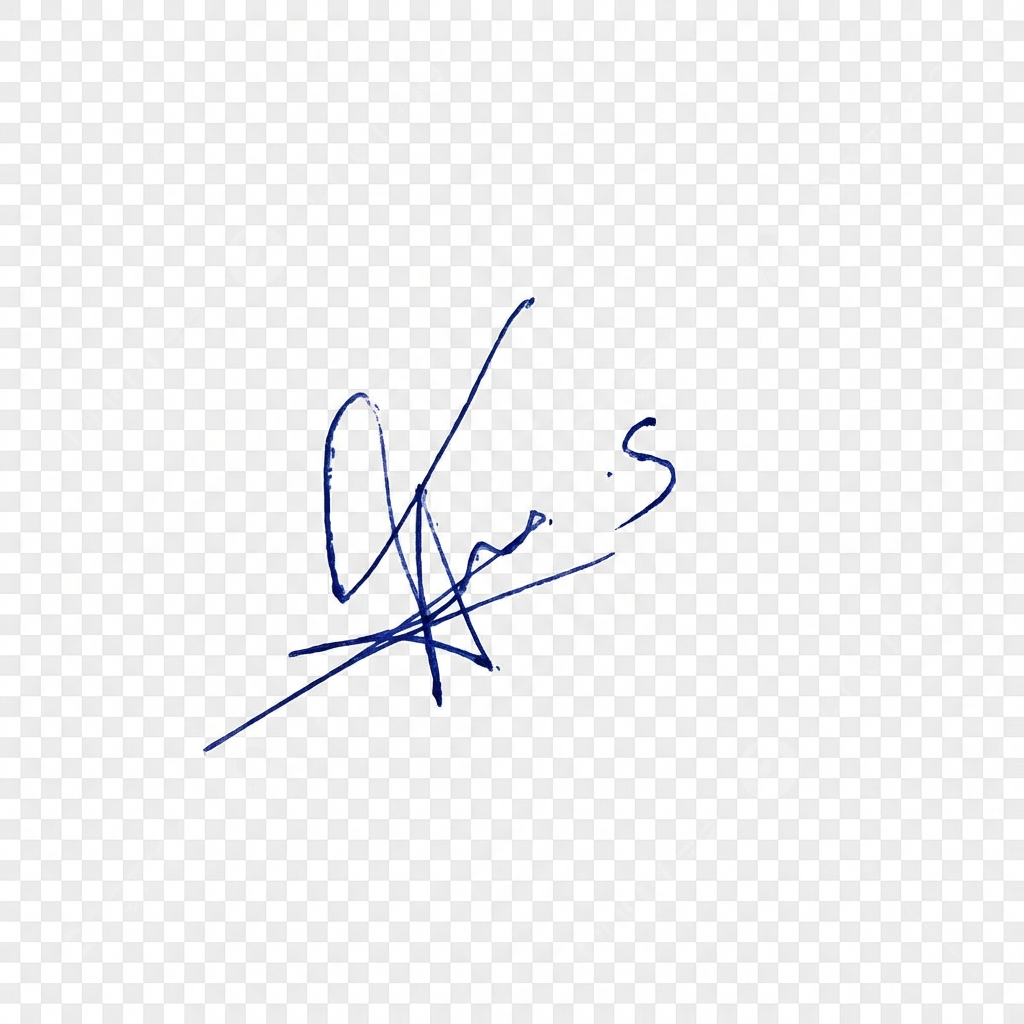
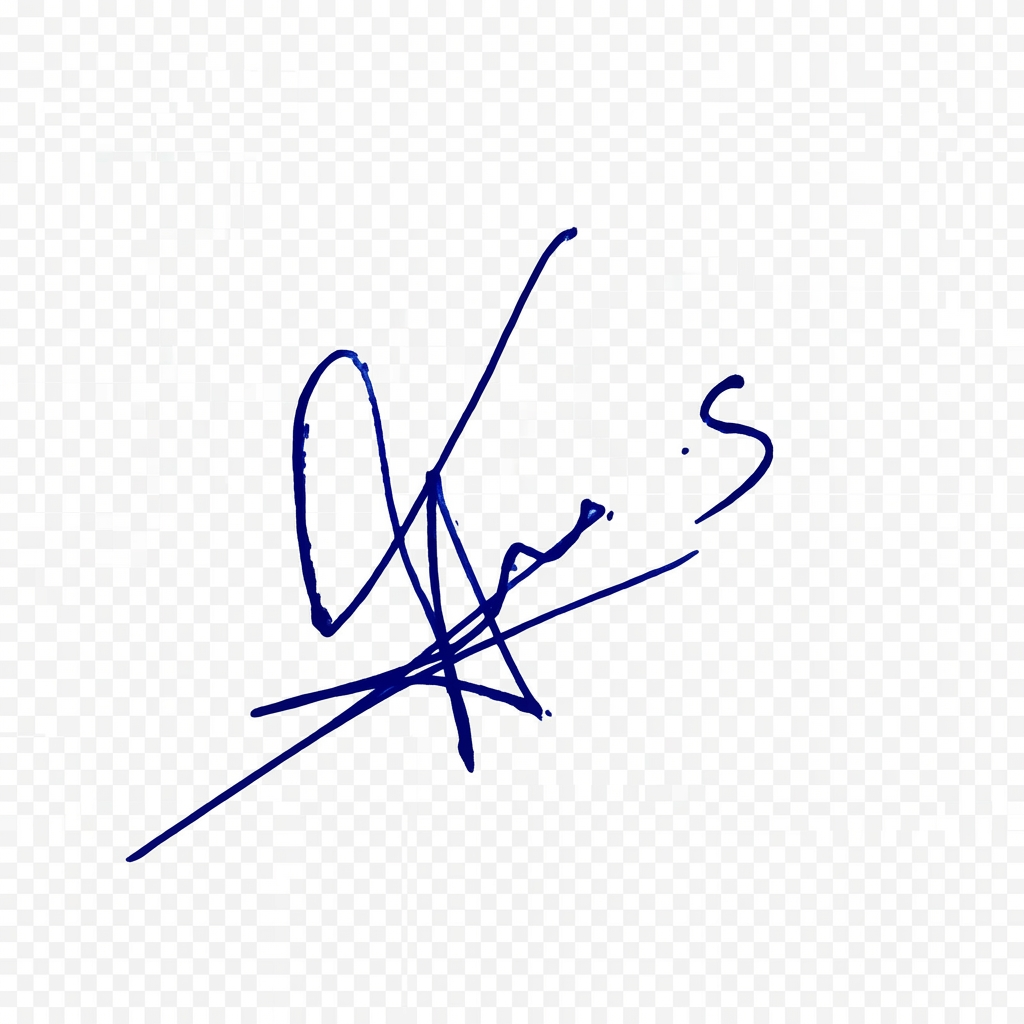
fix: Refine footer signature (remove text, transparent bg)

diff --git a/src/app/page.tsx b/src/app/page.tsx
@@ -50,9 +50,12 @@ export default function Home() {
         <a href="/privacy" className="hover:text-neutral-900 dark:hover:text-neutral-300 transition-colors">Privacy</a>
         <a href="/terms" className="hover:text-neutral-900 dark:hover:text-neutral-300 transition-colors">Terms</a>
         <span className="text-neutral-300 dark:text-neutral-700">|</span>
-        <div className="flex items-center gap-2">
-          <span className="text-neutral-400 text-xs">Built by</span>
-          <img src="/signature.png" alt="Amith" className="h-8 w-auto mix-blend-multiply dark:mix-blend-screen opacity-80" />
+        <div className="flex items-center justify-center">
+          <img
+            src="/signature.png"
+            alt="Signature"
+            className="h-10 w-auto opacity-90 hover:opacity-100 transition-opacity dark:brightness-200 dark:contrast-200 py-1"
+          />
         </div>
       </footer>
     </div>
